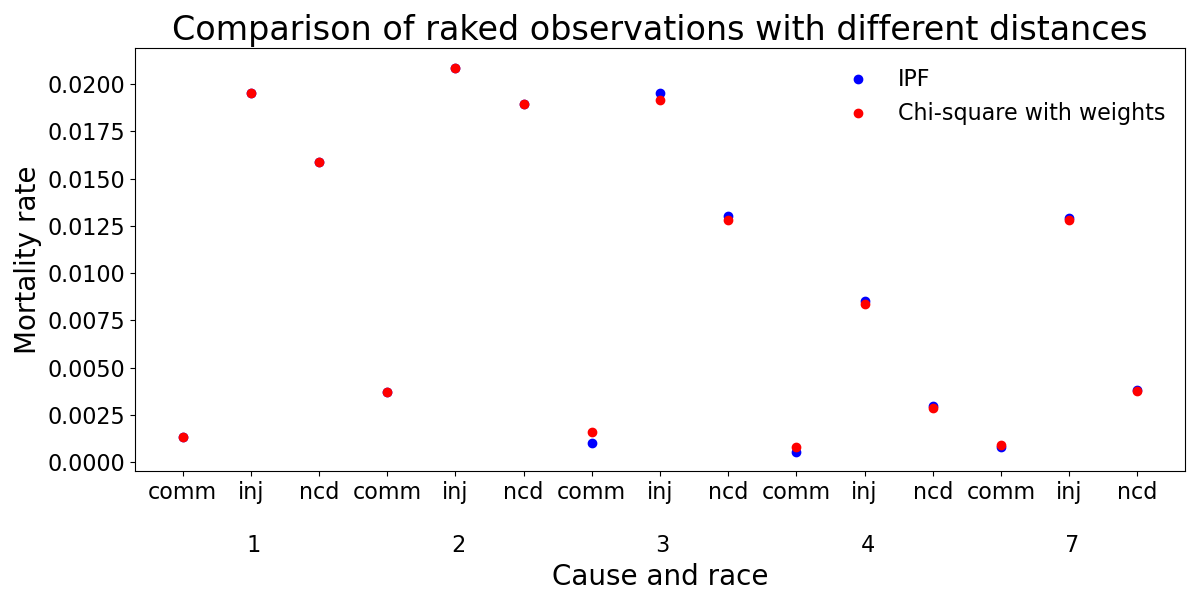
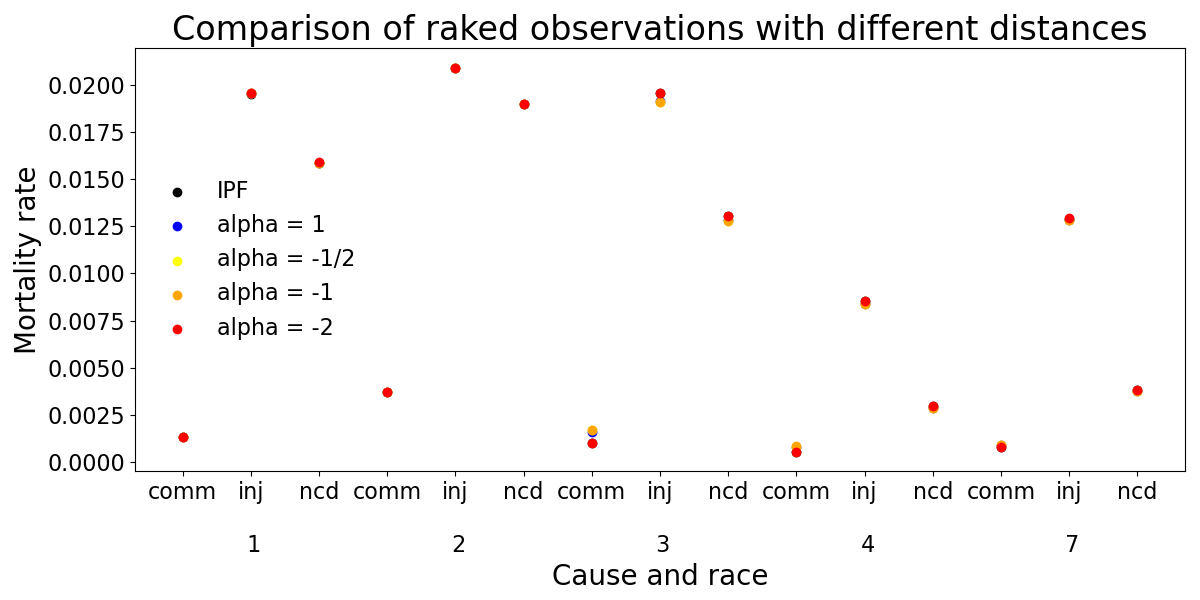
add general alpha (except 0)

diff --git a/raking_methods.py b/raking_methods.py
@@ -4,6 +4,8 @@ This module implements the raking methods in the k-dimensional case
 
 import numpy as np
 
+from scipy.linalg import solve
+
 def get_margin_matrix_vector(v_i, v_j, mu_i, mu_j):
     """
     In 2D, transform the I + J conditions on the margins
@@ -79,3 +81,82 @@ def raking_chi2_distance(x, q, A, y):
     lambda_k = np.matmul(Phi_plus, y_hat - y)
     mu = x * (1 - q * np.matmul(np.transpose(A), lambda_k))
     return mu
+
+def raking_general_distance(alpha, x, q, A, y, max_iter=500):
+    """
+    Raking using the general distance 1/alpha (x/alpha+1 (mu/x)^alpha+1 - mu + cte)
+    Input:
+      alpha: Scalar to define the distance
+      x: 1D Numpy array, observed values x_n = x_i,j if n = j I + i
+      q: 1D Numpy array, weights for the observations
+      A: 2D Numpy array, linear constraints
+      y: 1D Numpy array, partial sums
+      max_iter: Integer, number of iterations for Newton's root finding method
+    Output:
+      mu: 1D Numpy array, raked values
+    """
+    assert isinstance(x, np.ndarray), \
+        'Observations should be a Numpy array.'
+    assert isinstance(q, np.ndarray), \
+        'Weights should be a Numpy array.'
+    assert len(x) == len(q), \
+        'Observations and weights arrays should have the same size.'
+    assert isinstance(A, np.ndarray), \
+        'Linear constraints should be a Numpy array.'
+    assert isinstance(y, np.ndarray), \
+        'Partial sums should be a Numpy array.'
+    assert np.shape(A)[0] == len(y), \
+        'The number of linear constraints should be equal to the number of partial sums.'
+    assert np.shape(A)[1] == len(x), \
+        'The number of coefficients for the linear constraints should be equal to the number of observations.'
+
+    if alpha == 1:
+        mu = raking_chi2_distance(x, q, A, y)
+    else:
+        y_hat = np.matmul(A, x)
+        lambda_k = np.zeros(np.shape(A)[0])
+        epsilon = 1
+        iter_eps = 0
+        while (epsilon > 1.0e-5) & (iter_eps < max_iter):
+            if alpha == 0:
+                Phi = np.matmul(A, x * (1 - np.exp(q * \
+                np.matmul(np.transpose(A), lambda_k))))
+                D = np.diag(x * q * np.exp(1 - q * \
+                np.matmul(np.transpose(A), lambda_k)))
+            else:
+                Phi = np.matmul(A, x * (1 - np.power(1 - alpha * q * \
+                    np.matmul(np.transpose(A), lambda_k), 1.0 / alpha)))
+                D = np.diag(x * q * np.power(1 - alpha * q * \
+                    np.matmul(np.transpose(A), lambda_k), 1.0 / alpha - 1))
+            J = np.matmul(np.matmul(A, D), np.transpose(A))
+            # Compute Moore-Penrose pseudo inverse to solve the system
+            svd = np.linalg.svd(J)
+            U = svd.U
+            V = np.transpose(svd.Vh)
+            S = np.diag(svd.S)
+            Sinv = 1.0 / svd.S
+            Sinv[np.abs(svd.S) < 1.0e-10] = 0.0
+            Sinv = np.diag(Sinv)
+            J_plus = np.matmul(np.matmul(V, Sinv), np.transpose(U))
+            # Make sure that the new value of lambda is still valid
+            # This could be a problem only if alpha > 0.5 or alpha < -1
+            if (alpha > 0.5) or (alpha < -1.0):
+                gamma = 1.0
+                iter_gam = 0
+                while (np.any(1 - alpha * q * np.matmul(np.transpose(A), \
+                    lambda_k - np.matmul(J_plus, Phi - y_hat + y)) <= 0.0)) & \
+                      (iter_gam < max_iter):
+                    gamma = gamma / 2.0
+                    iter_gam = iter_gam + 1
+            else:
+                gamma = 1.0
+            epsilon = np.sum(np.abs(gamma * np.matmul(J_plus, Phi - y_hat + y)))
+            lambda_k = lambda_k - gamma * np.matmul(J_plus, Phi - y_hat + y)
+            iter_eps = iter_eps + 1
+        if alpha == 0:
+            mu = x * np.exp(q * np.matmul(np.transpose(A), lambda_k))
+        else:
+            mu = x * np.power(1 - alpha * q * \
+                np.matmul(np.transpose(A), lambda_k), 1.0 / alpha)
+    return mu
+

diff --git a/compare_distances.py b/compare_distances.py
@@ -7,7 +7,7 @@ import matplotlib.pyplot as plt
 import numpy as np
 import pandas as pd
 
-from raking_methods import get_margin_matrix_vector, raking_chi2_distance
+from raking_methods import get_margin_matrix_vector, raking_chi2_distance, raking_general_distance
 from run_experiment import IPF
 
 # Read dataset
@@ -41,31 +41,49 @@ x_raked = np.reshape(x_raked, (I * J, 1), order='F')
 # Divide by population to get prevalence
 df['raked_IPF'] = x_raked[:, 0] / df['pop']
 
-# Rake using chi-square distance
+# Choose values for alpha
+alphas = [1, -0.5, -1, -2]
+
+# Define names of raking methods
+names = ['alpha = 1',
+#         'alpha = 0',
+         'alpha = -1/2',
+         'alpha = -1',
+         'alpha = -2']
+
+# Rake using different distances
 (A, y) = get_margin_matrix_vector(v_i, v_j, mu_i, mu_j)
-mu = raking_chi2_distance(x, q, A, y)
+mu = np.zeros((len(x), len(alphas)))
+for index, alpha in enumerate(alphas):
+    print('alpha = ', alpha)
+    mu[:, index] = raking_general_distance(alpha, x, q, A, y)
 
 # Divide by population to get prevalence
-df['raked_chi2'] = mu / df['pop']
+for index, name in enumerate(names):
+    df[name] = mu[:, index] / df['pop']
 
 # Check if the raked values add up to the margin for each race
-for race in df['race'].unique().tolist():
-    df_sub = df.loc[df['race'] == race]
-    print('race ', race, ' - difference = ', \
-        abs(np.sum(df_sub['raked_chi2'].to_numpy())- \
-        df_sub['parent_value'].iloc[0]))
+#for race in df['race'].unique().tolist():
+#    df_sub = df.loc[df['race'] == race]
+#    print('race ', race, ' - difference = ', \
+#        abs(np.sum(df_sub['raked_general'].to_numpy())- \
+#        df_sub['parent_value'].iloc[0]))
 
 # Check if the raked values add up to the margin for each cause
-for cause in df['acause'].unique().tolist():
-    df_sub = df.loc[df['acause'] == cause]
-    print('cause ', cause, ' - difference = ', \
-        abs(np.sum(df_sub['raked_chi2'].to_numpy() * \
-        df_sub['pop'].to_numpy()) - df_sub['total_mcnty_value'].iloc[0]))
+#for cause in df['acause'].unique().tolist():
+#    df_sub = df.loc[df['acause'] == cause]
+#    print('cause ', cause, ' - difference = ', \
+#        abs(np.sum(df_sub['raked_general'].to_numpy() * \
+#        df_sub['pop'].to_numpy()) - df_sub['total_mcnty_value'].iloc[0]))
 
 # Plot
 plt.figure(figsize=(12, 6))
-plt.plot(np.arange(0, I * J), df['raked_IPF'].to_numpy(), 'bo', label='IPF')
-plt.plot(np.arange(0, I * J), df['raked_chi2'].to_numpy(), 'ro', label='Chi-square with weights')
+plt.scatter(np.arange(0, I * J), df['raked_IPF'].to_numpy(), color='black', marker='o', label='IPF')
+plt.scatter(np.arange(0, I * J), df['alpha = 1'].to_numpy(), color='blue', marker='o', label='alpha = 1')
+#plt.scatter(np.arange(0, I * J), df['alpha = 0'].to_numpy(), color='green', marker='o', label='alpha = 0')
+plt.scatter(np.arange(0, I * J), df['alpha = -1/2'].to_numpy(), color='yellow', marker='o', label='alpha = -1/2')
+plt.scatter(np.arange(0, I * J), df['alpha = -1'].to_numpy(), color='orange', marker='o', label='alpha = -1')
+plt.scatter(np.arange(0, I * J), df['alpha = -2'].to_numpy(), color='red', marker='o', label='alpha = -2')
 ticks = np.arange(0, I * J).tolist()
 tick_labels_race = []
 before = int((I - 1) / 2)
